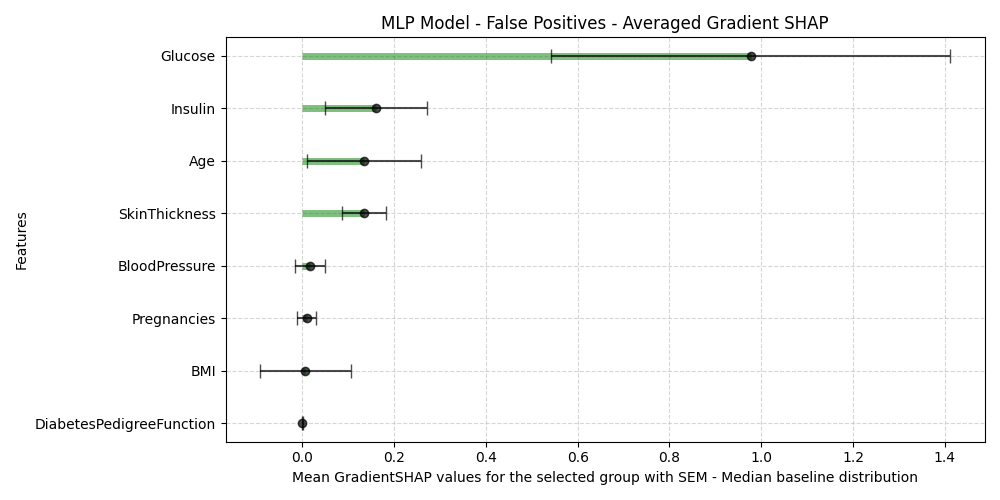
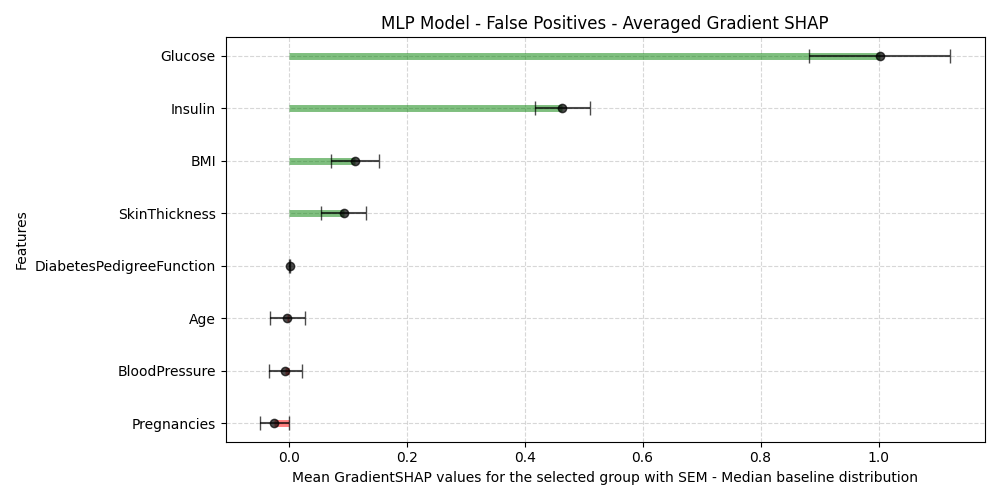
Update txt and SHAP descriptions

diff --git a/docs/index.md b/docs/index.md
@@ -1,10 +1,12 @@
-# IMPTOX - Data Analysis
+# IMPTOX WP1 - Data Analysis
+
+## Quick Cards for Explainable Artificial Intelligence
 
 These pages aim to guide IMPTOX members in creating and interpreting models for tabular numerical data. The shown sample workflows assume fully numeric datasets, including ordinal categories or one-hot encodings, and focuses on predicting a target variable (classification or regression). To illustrate these methods, we will apply XAI techniques to well-known example datasets such as the [Pima Indians Diabetes Database](https://www.kaggle.com/datasets/uciml/pima-indians-diabetes-database) and the [Heart Disease Dataset](https://www.kaggle.com/datasets/johnsmith88/heart-disease-dataset).
 
 !!! info "The project"
 
-    Microplastics and nanoplastics (MNP) are a growing concern for human health and the environment. The IMPTOX project brings together scientists from diverse fields—chemistry, biology, and medicine to investigate this pressing issue. Whether you're measuring MNP in environmental or animal samples, studying their impact on biofilms, tracking them as pathogen carriers, or exploring medical effects such as allergies, ==the project generates a wealth of complex and valuable data==.
+    Microplastics and nanoplastics (MNP) are a growing concern for human health and the environment. The IMPTOX project brings together scientists from diverse fields—chemistry, biology, and medicine to investigate this pressing issue. Whether you're measuring MNP in environmental or animal samples, studying their impact on biofilms, tracking them as pathogen carriers, or exploring medical effects such as allergies, **the project generates a wealth of complex and valuable data**.
 
     Data is only the beginning. How do we extract meaningful insights or create prediction models from high dimentional and complex data? This is where machine learning (ML) and Explainable Artificial Intelligence (XAI) come into play. XAI helps transform data into knowledge by offering transparent and interpretable models that reveal the why behind predictions.
 
@@ -20,8 +22,7 @@ These pages aim to guide IMPTOX members in creating and interpreting models for 
 
 
 
-
-
+## Usecases
 
 === "Random Forest"
 
@@ -38,11 +39,16 @@ These pages aim to guide IMPTOX members in creating and interpreting models for 
 
 === "SHAP"
 
-    By slightly modifying a model imputs many times and studying the outcome of the model, SHAP is a post-hoc method capable to explain how each variable influences the results for each observation data. 
+    SHAP illustrates how each feature contributes to the prediction by indicating whether it pushes the outcome higher or lower compared to the baseline. Positive SHAP values suggest an upward influence on the prediction, while negative values indicate a downward influence, providing a clear understanding of each feature's impact direction.
 
-    Include figures ?
+    Here we show the global impact of each feature averaged over all test samples:
 
-    ![Average influence of variables](./assets/img//GSHAP_MLP.png)
+    ![Average influence of variables](./assets/img/GSHAP_MLP.png)
+
+    It is possible to analyse the variable for each test sample or group of samples, for instance all false negatives, to analyze which feature might influence the results: 
+
+    ![Average influence of variables for False Negatives](./assets/img/GSHAP_MLP_FN.png)
+    
     
 === "DIMLP Fidex"
 

diff --git a/docs/Random-Forest.md b/docs/Random-Forest.md
@@ -6,6 +6,8 @@ See Notebook for example
 
 Here are the main data example and result. 
 
+Here is how to install (DO PIP FREEZE AND CREATE REQUIREMENTS:TXT when everything work)
+
 TODO
 
 
